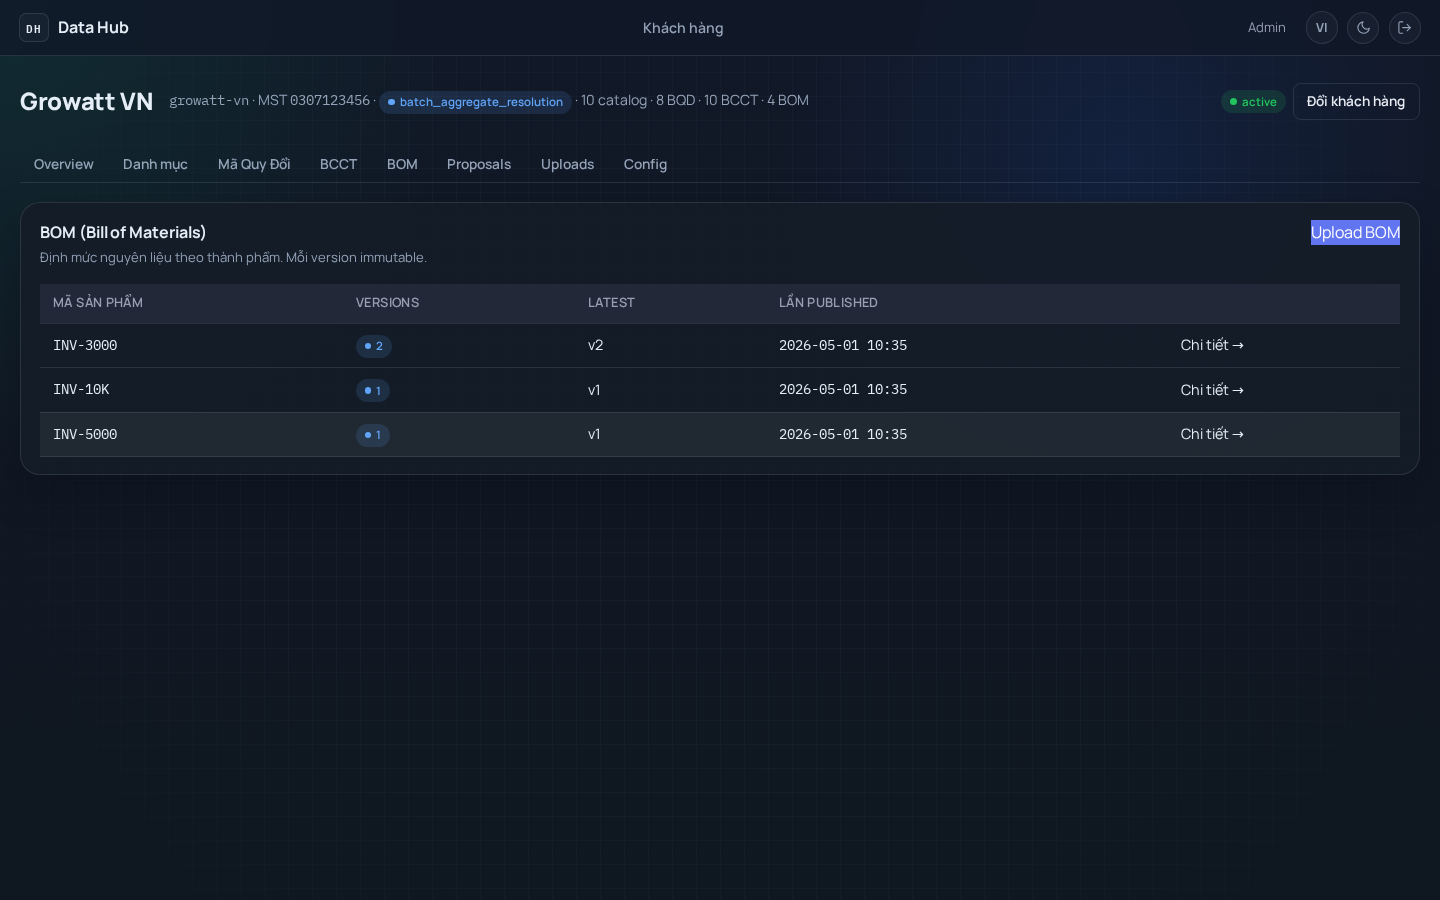
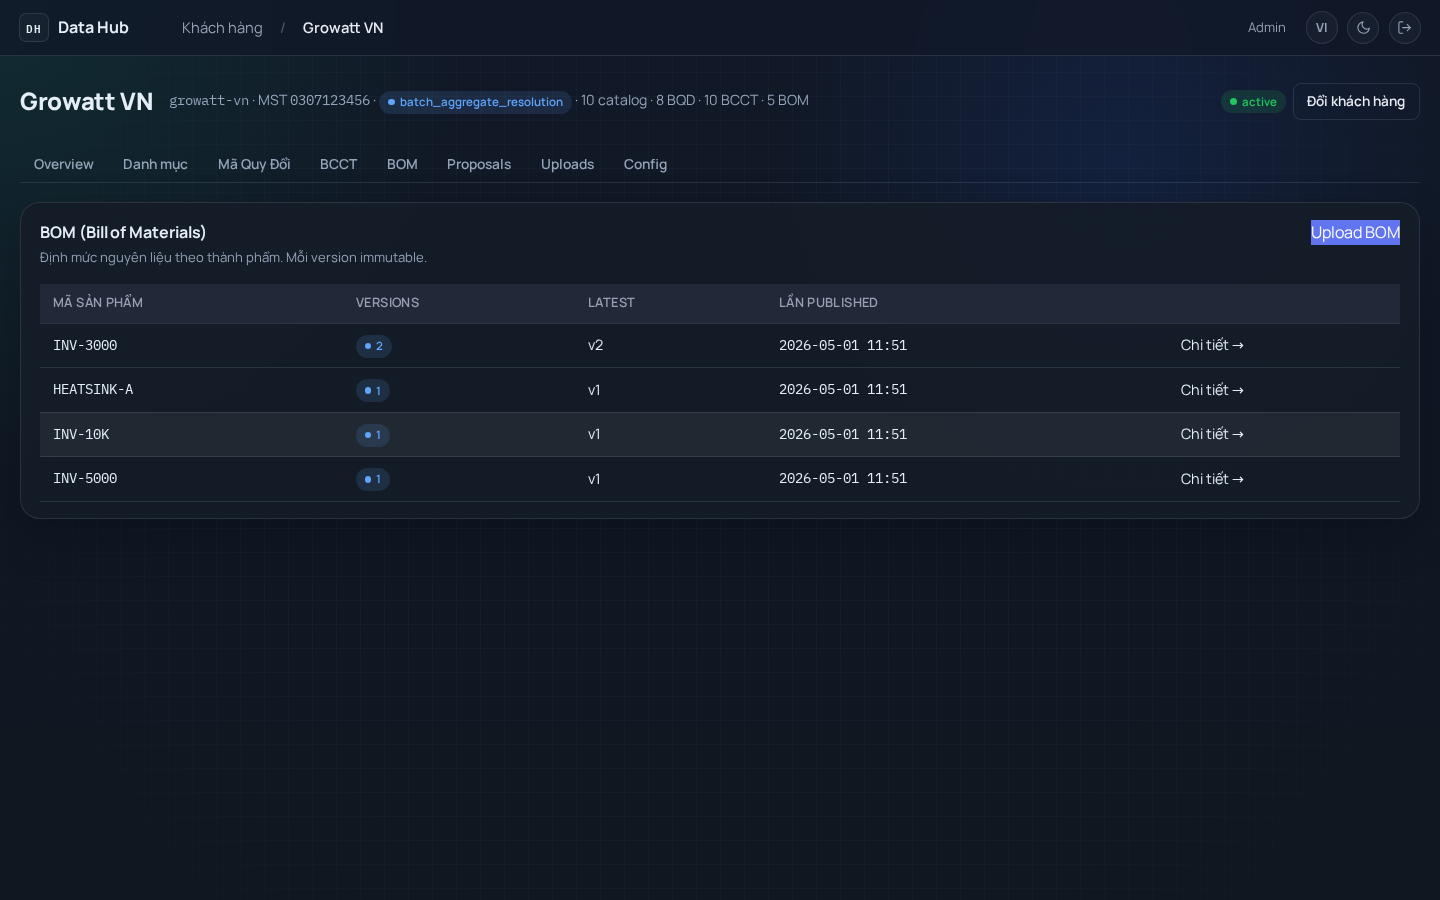
ux: dynamic breadcrumb + dual-source material badge + BCCT design note
Breadcrumb (replaces topnav-links):
- Always shows 'Khách hàng/Clients' as root.
- When inside a client workspace: appends client name as link.
- When on a sub-tab: appends localized tab label as current crumb.
- Built inline in base.html from existing context (client + active_tab).
- New CSS: .topnav-breadcrumb, .breadcrumb-sep, .breadcrumb-current
  with hover states matching CO's accent color.

Dual-source material flag:
- Catalog list query joined to BCCT-imports + BOM-products existence.
- 'is_dual_source' = customs_code appears in BCCT direction='import'
  AND as a product_code in some published bom_versions.
- Catalog template renders a 'dual' badge (badge-dual class, purple)
  next to category when flag is true.
- Approach matches Growatt's classify_complexity() algorithm:
  dual-source is computed at query/settlement time from cross-table joins,
  not stored as a category attribute. Material registry stays single-category;
  override-driven manual classification still available via existing
  category_override + override_reason columns.
- Seed extended with HEATSINK-A as BOM product (dual-source demo).

Tests still pass (28/28). Screenshots refreshed.

diff --git a/app/static/css/app.css b/app/static/css/app.css
@@ -1399,3 +1399,35 @@ table.dh-table .mono { font-family: 'IBM Plex Mono', monospace; font-size: .85re
   --text: #e8ebf2;
   --text-soft: #98a0b3;
 }
+
+/* === Breadcrumb (replaces topnav-links) === */
+.topnav-breadcrumb {
+  display: flex; align-items: center; gap: .5rem; flex: 1;
+  font-size: 0.92rem; color: var(--text, #1a1f2c);
+  margin-left: 1.4rem;
+  overflow: hidden;
+}
+.topnav-breadcrumb a {
+  color: var(--text-soft, #5b6478); text-decoration: none;
+  padding: .25rem .55rem; border-radius: .4rem;
+  transition: all .12s; white-space: nowrap;
+  max-width: 280px; overflow: hidden; text-overflow: ellipsis;
+}
+.topnav-breadcrumb a:hover {
+  background: rgba(60, 80, 220, 0.07);
+  color: var(--accent, #3c50dc);
+}
+.topnav-breadcrumb .breadcrumb-sep {
+  color: var(--text-soft, #5b6478); opacity: 0.5;
+  font-weight: 400;
+}
+.topnav-breadcrumb .breadcrumb-current {
+  color: var(--text, #1a1f2c); font-weight: 600;
+  padding: .25rem .55rem;
+  white-space: nowrap; overflow: hidden; text-overflow: ellipsis;
+  max-width: 280px;
+}
+
+/* dual-source / multi-source material badge */
+.badge-dual { background: rgba(180, 60, 200, 0.15); color: #8b3fb5; }
+[data-theme="dark"] .badge-dual { background: rgba(180, 100, 220, 0.25); color: #d8a8eb; }

diff --git a/app/templates/base.html b/app/templates/base.html
@@ -17,8 +17,22 @@
       <span>{{ t('app.brand') }}</span>
     </a>
     {% if user %}
-    <nav class="topnav-links" aria-label="Navigation">
-      <a href="/clients" class="{% if active_root == 'clients' %}active{% endif %}">{{ t('nav.clients') }}</a>
+    <nav class="topnav-breadcrumb" aria-label="Breadcrumb">
+      {% if active_root == 'clients' and not client %}
+        <span class="breadcrumb-current">{{ t('nav.clients') }}</span>
+      {% else %}
+        <a href="/clients">{{ t('nav.clients') }}</a>
+      {% endif %}
+      {% if client %}
+        <span class="breadcrumb-sep">/</span>
+        {% if active_tab and active_tab != 'overview' %}
+          <a href="/clients/{{ client.client_id }}">{{ client.name }}</a>
+          <span class="breadcrumb-sep">/</span>
+          <span class="breadcrumb-current">{{ t('tabs.' + active_tab) }}</span>
+        {% else %}
+          <span class="breadcrumb-current">{{ client.name }}</span>
+        {% endif %}
+      {% endif %}
     </nav>
     <div class="topnav-meta">
       <span class="topnav-user">{{ user.display_name }}</span>

diff --git a/app/templates/clients/catalog.html b/app/templates/clients/catalog.html
@@ -49,7 +49,12 @@
         <td class="mono">{{ m.customs_code }}</td>
         <td class="mono">{{ m.product_code or '' }}</td>
         <td>{{ m.name or '' }}</td>
-        <td><span class="badge badge-info">{{ m.category }}</span></td>
+        <td>
+          <span class="badge badge-info">{{ m.category }}</span>
+          {% if m.is_dual_source %}
+            <span class="badge badge-dual" title="Mã này vừa có BCCT imports vừa là BOM product (settlement-time treat as dual-source).">⇄ dual</span>
+          {% endif %}
+        </td>
         <td class="mono">{{ m.unit or '' }}</td>
         <td class="mono">{{ m.hs_code or '' }}</td>
         <td><span class="badge badge-{{ 'success' if m.status == 'active' else 'warning' }}">{{ m.status }}</span></td>

diff --git a/app/routes/catalog.py b/app/routes/catalog.py
@@ -93,23 +93,42 @@ async def upload_submit(
 
 def _query_materials(*, client_id: str, category: str | None, q: str | None) -> list[dict]:
     sql = """
-        select customs_code, product_code, name, category, status, unit, hs_code, updated_at
-        from hub.materials where client_id = %s
+        select m.customs_code, m.product_code, m.name, m.category, m.category_override,
+               m.status, m.unit, m.hs_code, m.updated_at,
+               exists (
+                 select 1 from hub.bcct_rows b
+                 where b.client_id = m.client_id
+                   and b.customs_code = m.customs_code
+                   and b.direction = 'import'
+               ) as has_imports,
+               exists (
+                 select 1 from hub.bom_versions v
+                 where v.client_id = m.client_id
+                   and v.product_code = m.customs_code
+                   and v.tombstoned_at is null
+                   and v.status = 'published'
+               ) as has_bom
+        from hub.materials m
+        where m.client_id = %s
     """
     params: list = [client_id]
     if category:
-        sql += " and category = %s"
+        sql += " and m.category = %s"
         params.append(category)
     if q:
-        sql += " and (customs_code ilike %s or product_code ilike %s or name ilike %s or hs_code ilike %s)"
+        sql += (" and (m.customs_code ilike %s or m.product_code ilike %s "
+                "or m.name ilike %s or m.hs_code ilike %s)")
         like = f"%{q}%"
         params.extend([like, like, like, like])
-    sql += " order by customs_code limit 1000"
+    sql += " order by m.customs_code limit 1000"
     with connect() as conn:
         with conn.cursor() as cur:
             cur.execute(sql, params)
             cols = [d[0] for d in cur.description]
-            return [dict(zip(cols, r)) for r in cur.fetchall()]
+            rows = [dict(zip(cols, r)) for r in cur.fetchall()]
+            for r in rows:
+                r["is_dual_source"] = bool(r.get("has_imports") and r.get("has_bom"))
+            return rows
 
 
 def _category_counts(client_id: str) -> dict:

diff --git a/app/seed.py b/app/seed.py
@@ -144,7 +144,7 @@ def _seed_growatt(client_id: str) -> None:
 
     resolve_for_dncx(client_id)
 
-    # BOM — 3 products with rich rows
+    # BOM — 3 finished products + 1 dual-source sub-assembly (HEATSINK-A: vừa import vừa tự sản xuất)
     wb = Workbook(); ws = wb.active; ws.title = "BOM"
     ws.append(["Mã SP", "Mã NVL", "Định mức", "ĐVT"])
     bom_rows = [
@@ -166,6 +166,9 @@ def _seed_growatt(client_id: str) -> None:
         ("INV-10K", "PCB-12", 2.0, "pcs"),
         ("INV-10K", "HEATSINK-A", 2.0, "pcs"),
         ("INV-10K", "CASE-INV", 1.0, "pcs"),
+        # Dual-source: HEATSINK-A có thể vừa nhập (NVL trong BCCT) vừa tự đúc từ AL-100.
+        # Khi BOM có HEATSINK-A là product_code, settlement nhận diện dual-source.
+        ("HEATSINK-A", "AL-100", 0.18, "kg"),
     ]
     for r in bom_rows:
         ws.append(r)
